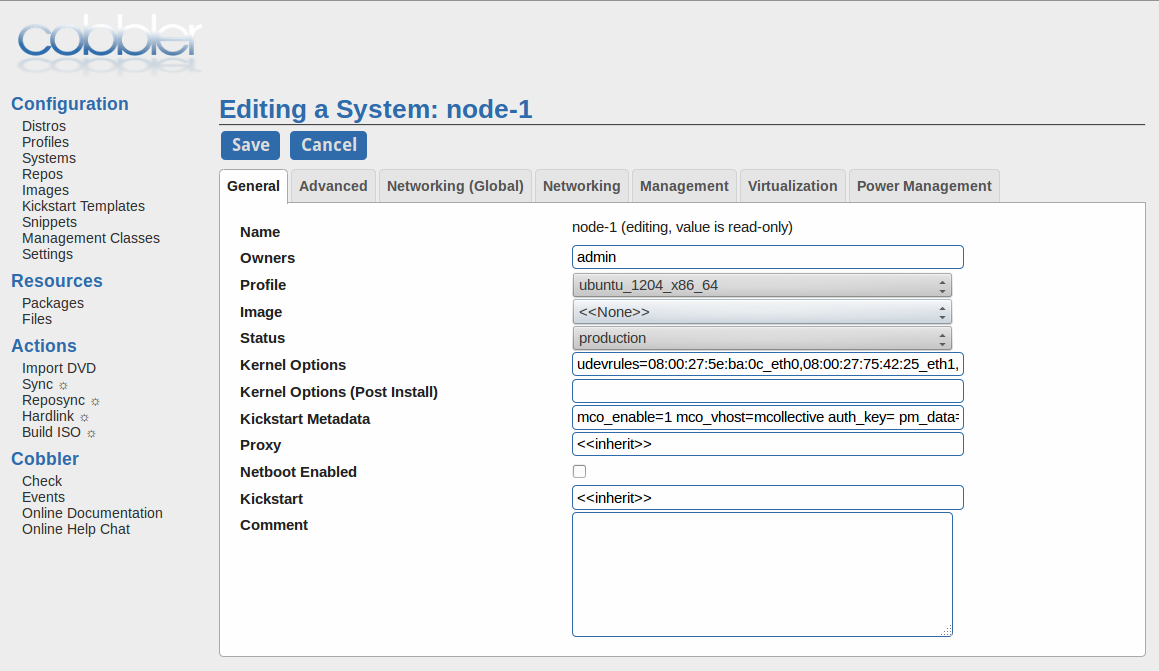
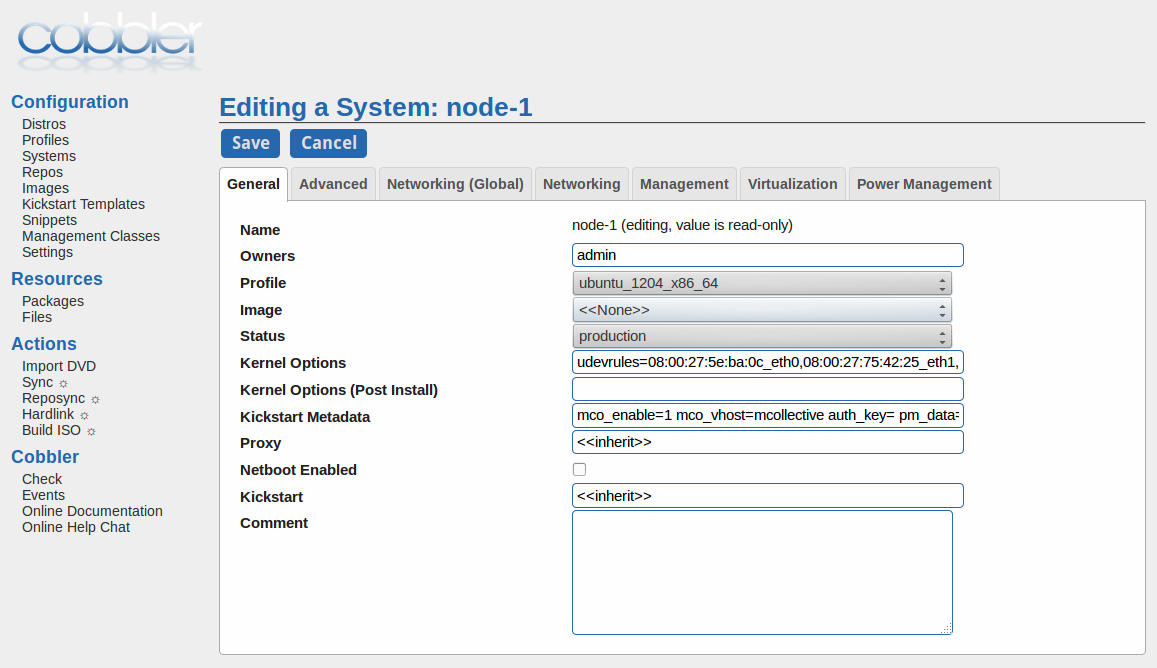
Fixes command syntax for Galera in OpsGuide
This commit provides fix for the command (so that --force
key'd be in the same line as the beginning
of the command).

It also improves cobbler-edit-system.png screenshots
with cropping the top of the picture.

Closes-Bug: 144780
(cherry picked from commit d119382344c358436301de7229d50139dfe34546)

diff --git a/pages/operations/2410-galera-autorebuild.rst b/pages/operations/2410-galera-autorebuild.rst
@@ -51,7 +51,6 @@ To remove all GTIDs and SEQNOs from Corosync CIB
 and allow the OCF script to reread the data
 from the `grastate.dat` file, you should do::
 
-  cibadmin --delete-all --query --xpath "//nodes/*/*/nvpair[@name=\"gtid\"]"
-  --force
+  cibadmin --delete-all --query --xpath "//nodes/*/*/nvpair[@name=\"gtid\"]" --force
 
 
